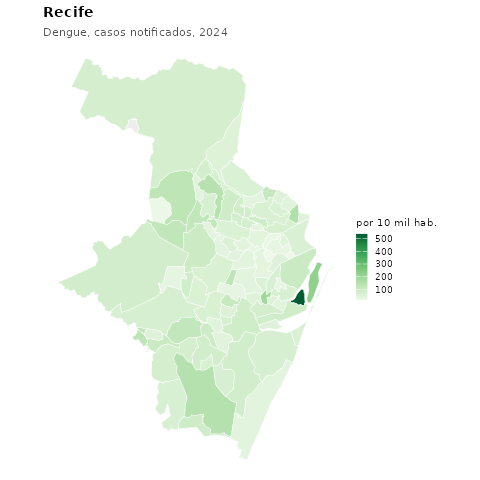
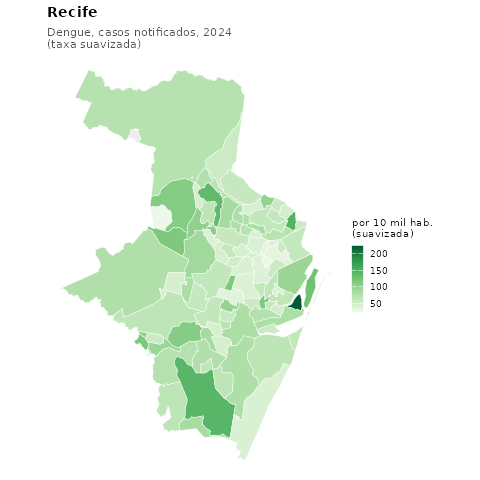
Versão 0.2.0.9000: taxa suavizada, aviso do SAMU e NEWS separado

Changed region(s): [[0.0938, 0.0, 0.6875, 0.9375], [0.7188, 0.4375, 0.9062, 0.6562]]

diff --git a/NEWS.md b/NEWS.md
@@ -1,3 +1,13 @@
+# localdatasus (em desenvolvimento)
+
+Mudanças feitas depois do envio da versão 0.2.0 ao CRAN.
+
+* Nova função `suavizar_taxas()` e argumento `suavizar = TRUE` em `mapa_bairro()` e `mapa_interativo()`: taxa suavizada pelo estimador bayesiano empírico de Marshall (1991), por município, ano e categoria, para bairros com poucos moradores, a partir de uma observação sobre o mapa do Recife.
+* `samu_bairro()`: a documentação avisa que a taxa por morador engana em áreas centrais e hospitalares; para mapas, use `valor = "chamados"`.
+* Correção: tabelas de TabNet guardadas no cache por versões antigas do pacote (com a coluna `coluna` no lugar de `categoria`) são convertidas ao serem lidas, em vez de dar erro.
+* Citação com o DOI do Zenodo (10.5281/zenodo.23244742), que vale para todas as versões; `citation("localdatasus")` traz também o ORCID do autor.
+* Documentação em <https://hendesson.github.io/localdatasus/> (pkgdown), com a referência das funções por tema, os tutoriais como artigos e uma galeria de mapas no README.
+
 # localdatasus 0.2.0
 
 * Correção: a padronização de nomes e rótulos tirava os acentos de forma diferente no macOS ("Etária" virava "Et'aria"), o que podia impedir a escolha de opções nos TabNets. Agora o resultado é o mesmo em Linux, macOS e Windows.

diff --git a/README.md b/README.md
@@ -35,9 +35,10 @@ Cada tabela do pacote vira um mapa com uma linha, `mapa_bairro()`, sobre os cont
 circ <- obitos_bairro("Rio de Janeiro", 2023, cid = "I")
 mapa_bairro(circ)        # mapa estático (ggplot2), pronto para artigo
 mapa_interativo(circ)    # mapa interativo (leaflet), para explorar
+mapa_bairro(circ, suavizar = TRUE)   # taxa suavizada, para bairros pouco populosos
 ```
 
-Taxas por 10 mil habitantes, com a população do Censo 2022. Os mapas são gerados pelo script [`data-raw/galeria.R`](https://github.com/Hendesson/localdatasus/blob/main/data-raw/galeria.R).
+Taxas por 10 mil habitantes, com a população do Censo 2022. Em bairros com poucos moradores, poucos casos produzem taxas extremas: use `mapa_bairro(x, suavizar = TRUE)` para a taxa suavizada (bayesiano empírico, `suavizar_taxas()`), como no mapa da dengue no Recife. Nos chamados do SAMU, que registram o local da ocorrência e não a residência, o mapa mostra o número de chamados. Os mapas são gerados pelo script [`data-raw/galeria.R`](https://github.com/Hendesson/localdatasus/blob/main/data-raw/galeria.R).
 
 ## Instalação
 
